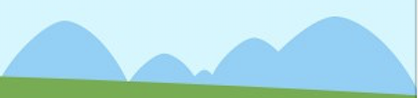
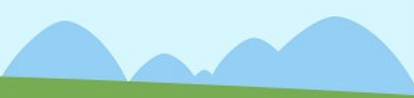
Adjust footer

diff --git a/app/assets/stylesheets/welcome.scss b/app/assets/stylesheets/welcome.scss
@@ -31,6 +31,11 @@ body, html {
   height: 100%;
 }
 
+body, html, footer, main {
+  width: 100%;
+  box-sizing: border-box;
+}
+
 body {
   background: #e6faff image_url('background.jpg') center center;
   background-size: cover;
@@ -47,35 +52,10 @@ main {
 footer {
   position: relative;
   flex-shrink: 0;
-  padding: 0 15px 15px 15px;
+  padding: 15px;
   background: #89c765;
   color: white;
-
-  &:before {
-    content: "";
-    width: 100%;
-    bottom: 85%;
-    position: absolute;
-    height: 0px;
-    border: solid 50px #65af44;
-    border-color: #65af44;
-    border-radius: 100%/80px 80px 0 0;
-    margin: -10px 0px 0px -30px;
-    transform: rotate(3deg);
-    z-index: -1;
-  }
-  &:after {
-    content: "";
-    width: 100%;
-    bottom: 85%;
-    position: absolute;
-    height: 0px;
-    border: solid 50px #89c765;
-    border-color: #89c765;
-    border-radius: 100%/80px 80px 0 0;
-    margin: -30px;
-    z-index: -1;
-  }
+  box-sizing: border-box;
 
   a {
     color: white;
@@ -86,8 +66,19 @@ footer {
     flex-direction: row;
     text-align: center;
     justify-content: space-around;
-    margin-bottom: 15px;
-    margin-top: -20px;
+  }
+
+  .background-montain {
+    position: absolute;
+    bottom: 100%;
+    right: 0px;
+    z-index: -2;
+    width: 50%;
+    transform: translateY(15px);
+
+    img {
+      width: 100%;
+    }
   }
 
   .date, .time {
